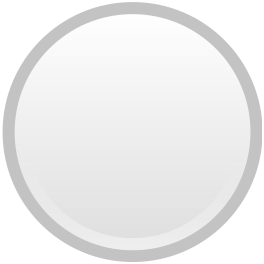
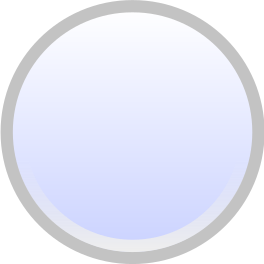
Adjust stone colors

diff --git a/css/goban.css b/css/goban.css
@@ -88,7 +88,7 @@
     }
     .shudan-stone-image {
         background-repeat: no-repeat;
-        background-size: contain;
+        background-size: 100% 100%;
     }
     .shudan-stone-image.shudan-sign_1 {
         background-image: url('./stone_1.png');
